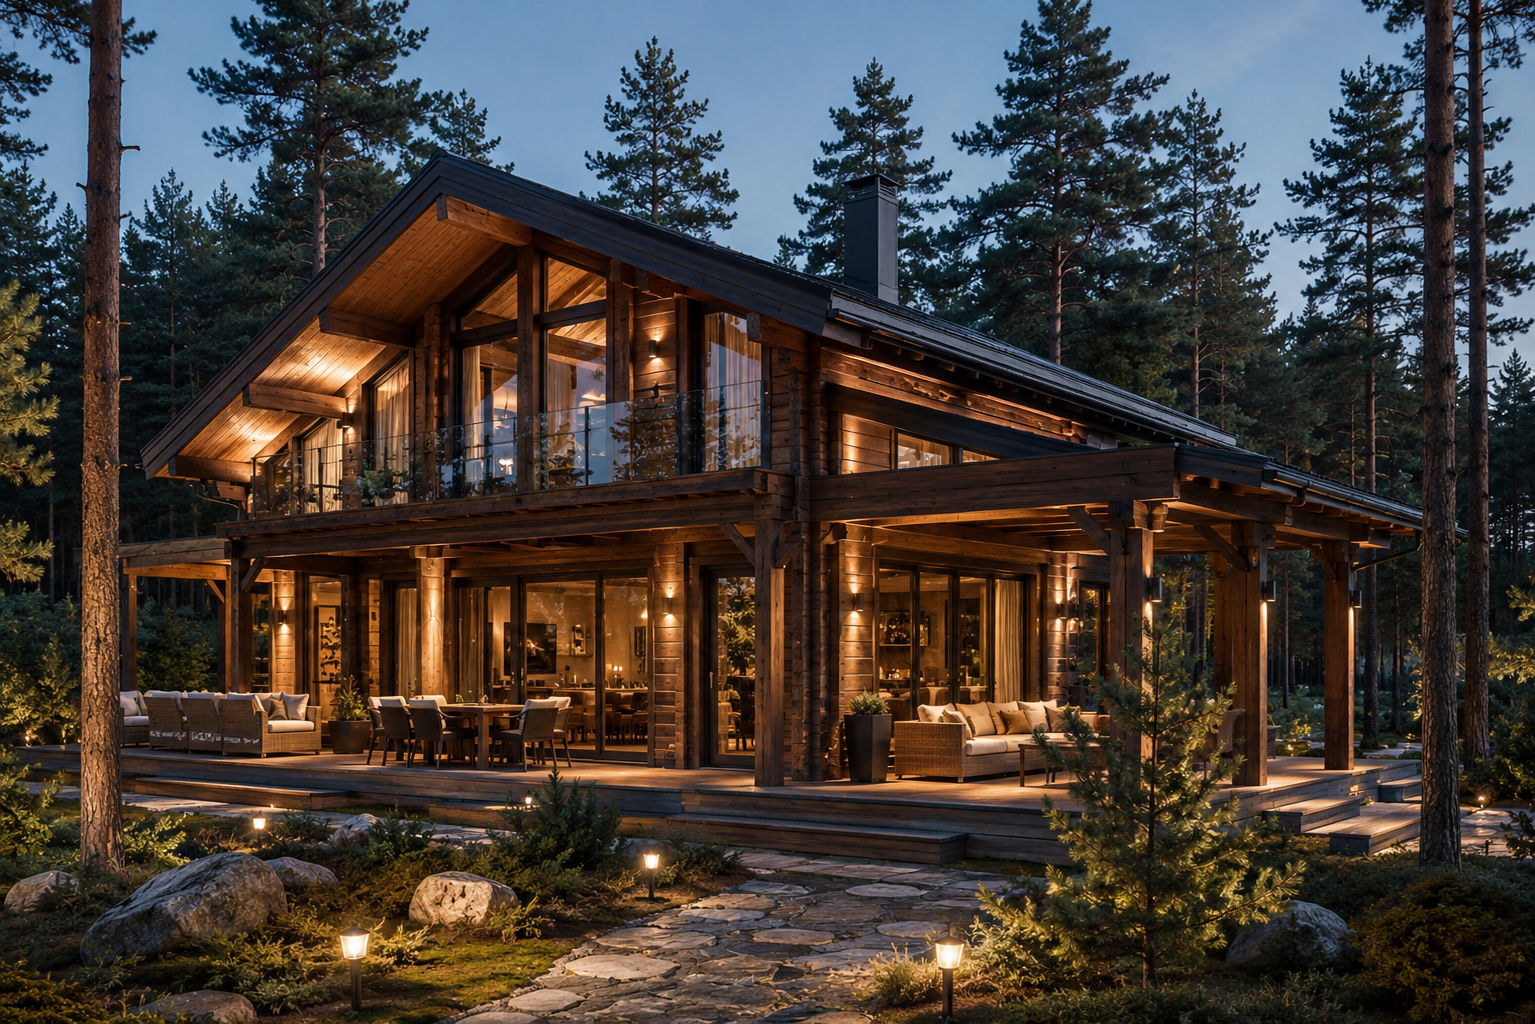
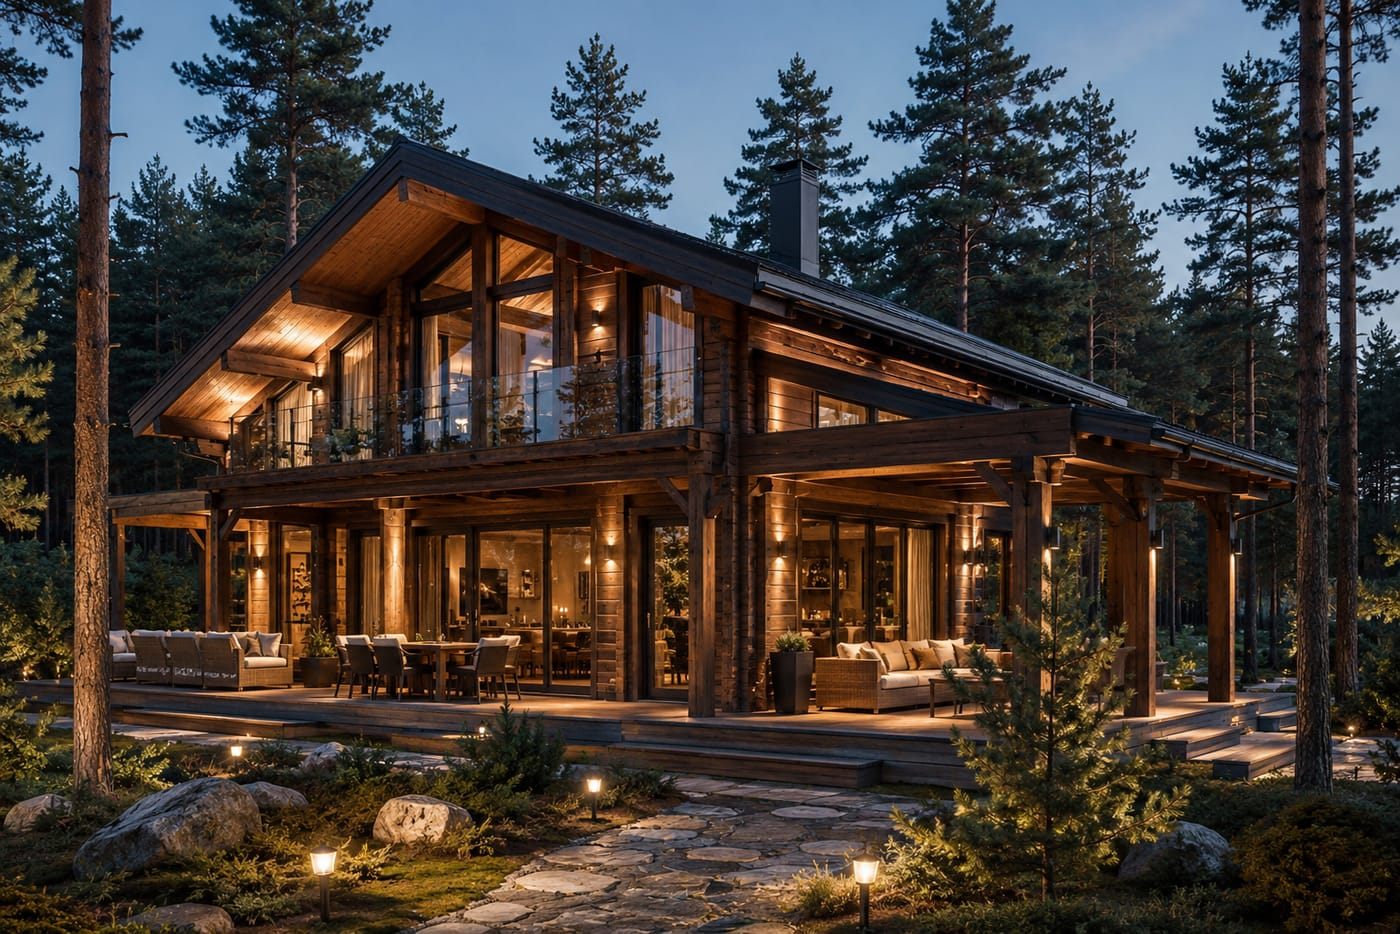
perf: optimize mobile performance (LCP/FCP)
Recompress lesnoy-1.jpg 2.8MB->276KB (was PNG mislabeled .jpg). Hero bg 1920->1280px q70. Preload LCP image with fetchpriority=high, preconnect to images.unsplash.com, load Leaflet CSS non-render-blocking.

diff --git a/index.html b/index.html
@@ -21,8 +21,13 @@
   <link rel="icon" href="img/favicon.svg" type="image/svg+xml">
   <link rel="preconnect" href="https://fonts.googleapis.com">
   <link rel="preconnect" href="https://fonts.gstatic.com" crossorigin>
+  <link rel="preconnect" href="https://images.unsplash.com" crossorigin>
+  <!-- Предзагрузка LCP-изображения (фон героя) для быстрой отрисовки -->
+  <link rel="preload" as="image" fetchpriority="high" href="https://images.unsplash.com/photo-1510798831971-661eb04b3739?auto=format&fit=crop&w=1280&q=70">
   <link href="https://fonts.googleapis.com/css2?family=Cormorant+Garamond:ital,wght@0,400;0,500;0,600;0,700;1,400&family=Inter:wght@300;400;500;600&family=Caveat:wght@600;700&display=swap" rel="stylesheet">
-  <link rel="stylesheet" href="https://cdn.jsdelivr.net/npm/leaflet@1.9.4/dist/leaflet.min.css">
+  <!-- Leaflet CSS грузим неблокирующе (карта внизу страницы) -->
+  <link rel="stylesheet" href="https://cdn.jsdelivr.net/npm/leaflet@1.9.4/dist/leaflet.min.css" media="print" onload="this.media='all'">
+  <noscript><link rel="stylesheet" href="https://cdn.jsdelivr.net/npm/leaflet@1.9.4/dist/leaflet.min.css"></noscript>
   <link rel="stylesheet" href="style.css">
 
   <!-- JSON-LD Structured Data -->
@@ -169,7 +174,7 @@
 
     <!-- ═══════════════════════ HERO ═══════════════════════ -->
     <section class="hero" id="hero">
-      <div class="hero__bg" style="background-image:url('https://images.unsplash.com/photo-1510798831971-661eb04b3739?auto=format&fit=crop&w=1920&q=80')" role="img" aria-label="Деревянный коттедж у озера"></div>
+      <div class="hero__bg" style="background-image:url('https://images.unsplash.com/photo-1510798831971-661eb04b3739?auto=format&fit=crop&w=1280&q=70')" role="img" aria-label="Деревянный коттедж у озера"></div>
       <div class="hero__overlay"></div>
       <video class="hero__video" autoplay muted loop playsinline>
         <source src="https://videos.pexels.com/video-files/3571264/3571264-hd_1920_1080_25fps.mp4" type="video/mp4">
